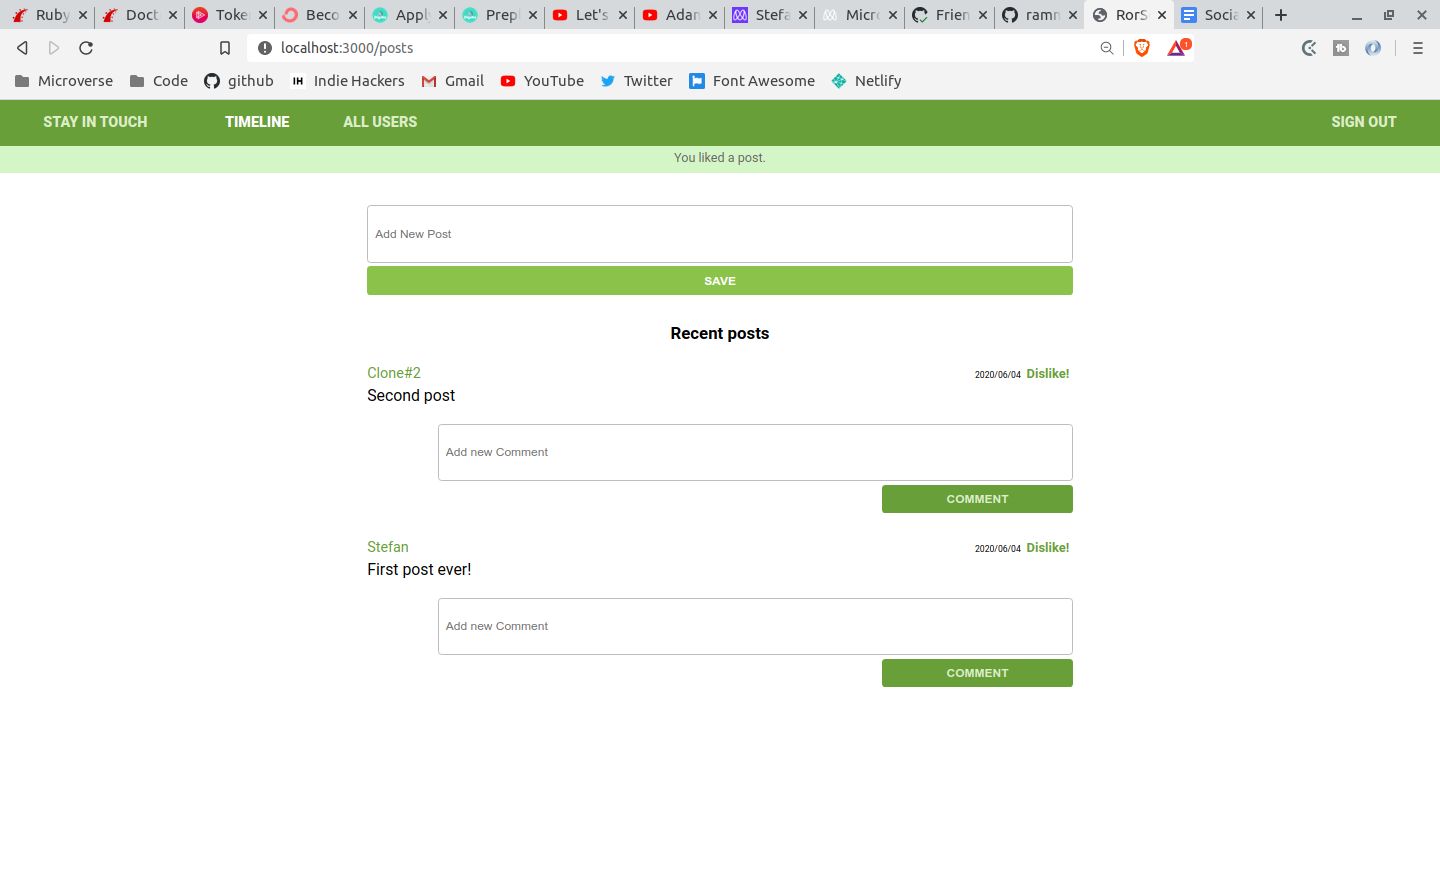
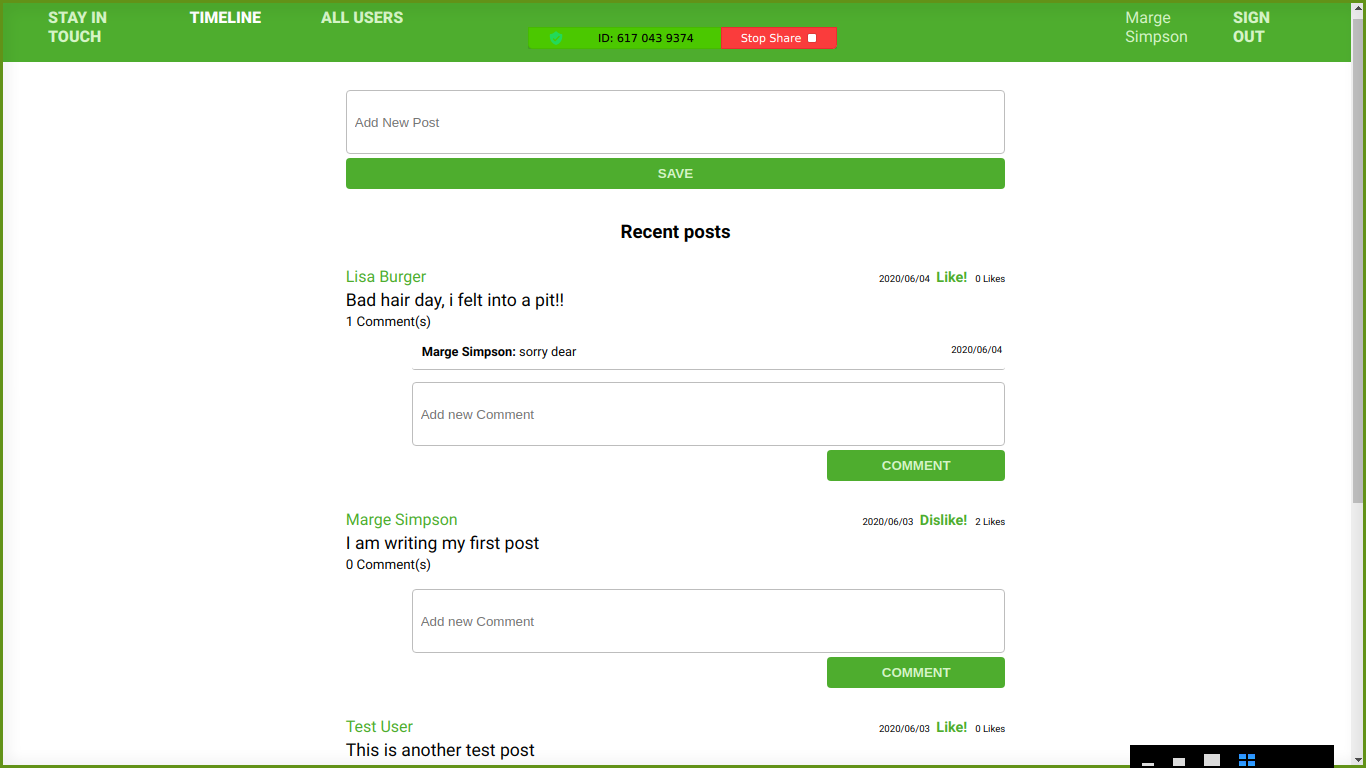
Added the likes and comments counts

diff --git a/app/models/post.rb b/app/models/post.rb
@@ -8,4 +8,12 @@ class Post < ApplicationRecord
   scope :ordered_by_most_recent, -> { order(created_at: :desc) }
   has_many :comments, dependent: :destroy
   has_many :likes, dependent: :destroy
+
+  def like_count
+    likes.count
+  end
+
+  def comment_count
+    comments.count
+  end
 end
